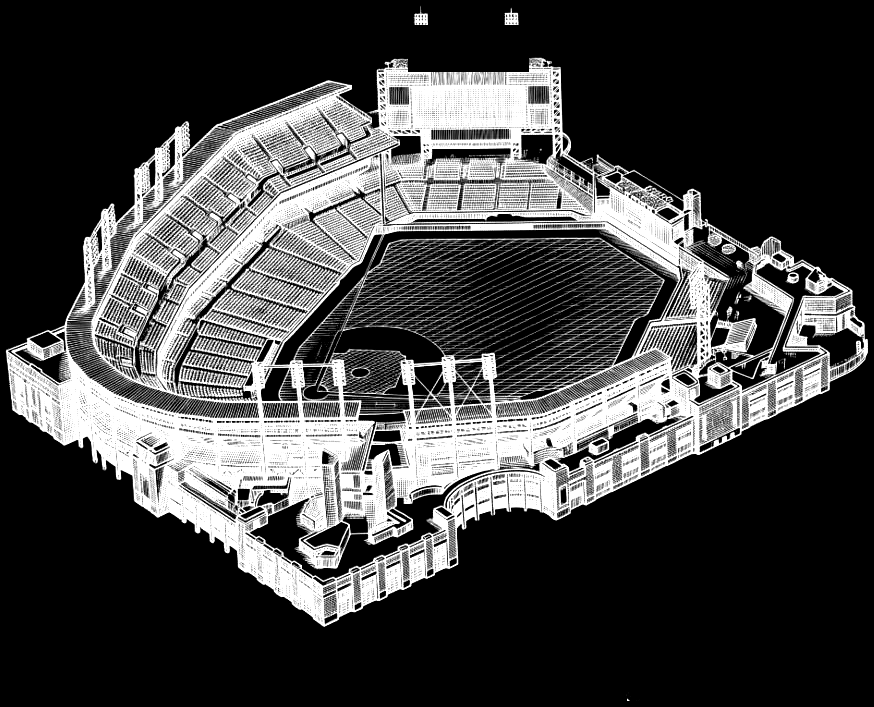
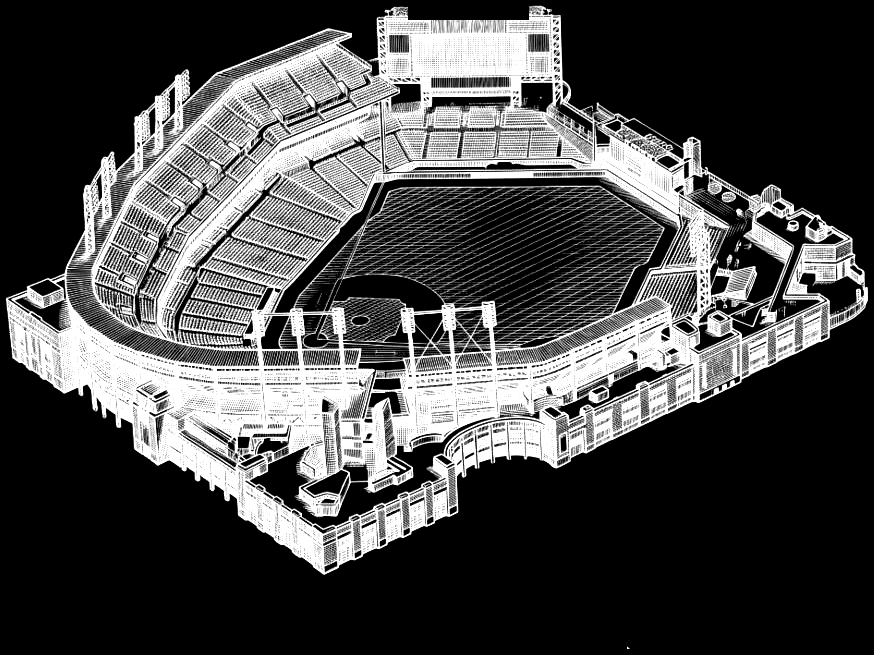
Fix White Sox/D-backs colour lookup (MLB CWS/AZ vs ESPN CHW/ARI); clean DET plate
Every CWS pick card would have failed to render: the ESPN colour snapshot
keys the White Sox as CHW. All 30 teams now resolve (verified). Also drops
two sign-erasure remnants floating above Comerica's scoreboard.

diff --git a/scripts/render_series_card.py b/scripts/render_series_card.py
@@ -65,7 +65,7 @@ def palette(abbr):
     """Card inks from the team's own colours (ESPN snapshot): primary prints
     the quadrants, alternate prints the diamond. Text and plate ink are
     chosen for contrast, never guessed."""
-    c = COLORS.get(abbr) or COLORS.get({"AZ": "ARI", "ARI": "AZ", "ATH": "OAK", "WSH": "WSH"}.get(abbr, ""), {})
+    c = COLORS.get(abbr) or COLORS.get({"AZ": "ARI", "ARI": "AZ", "CWS": "CHW", "CHW": "CWS", "ATH": "OAK", "WSH": "WSH"}.get(abbr, ""), {})
     if not c:
         raise SystemExit(f"{abbr} not in data/reference/mlb_team_colors_espn.json")
     P, A = _hex(c["color"]), _hex(c["alt"])
@@ -77,7 +77,7 @@ def palette(abbr):
 
 
 def team_ref(abbr):
-    t = TEAMS.get(abbr) or TEAMS.get({"AZ": "ARI", "ARI": "AZ", "OAK": "ATH", "WAS": "WSH"}.get(abbr, ""), {})
+    t = TEAMS.get(abbr) or TEAMS.get({"AZ": "ARI", "ARI": "AZ", "CHW": "CWS", "OAK": "ATH", "WAS": "WSH"}.get(abbr, ""), {})
     if not t:
         raise SystemExit(f"{abbr} not in data/reference/mlb_teams_2026.json; refresh the snapshot")
     city = t["franchise"] if t["franchise"] != t["team"] else t["location"]
